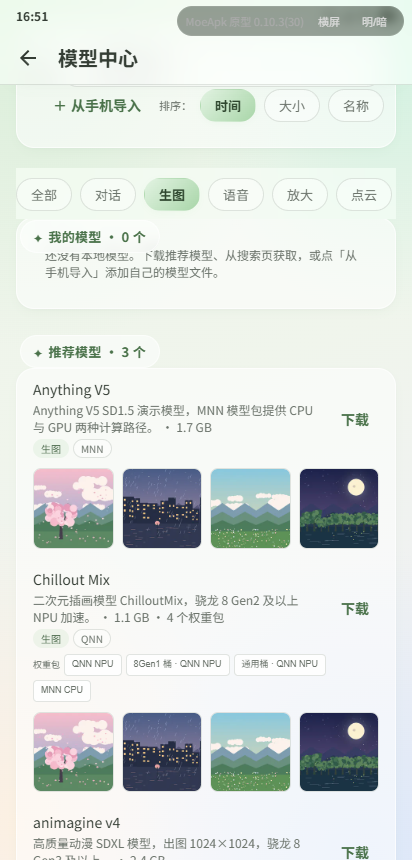
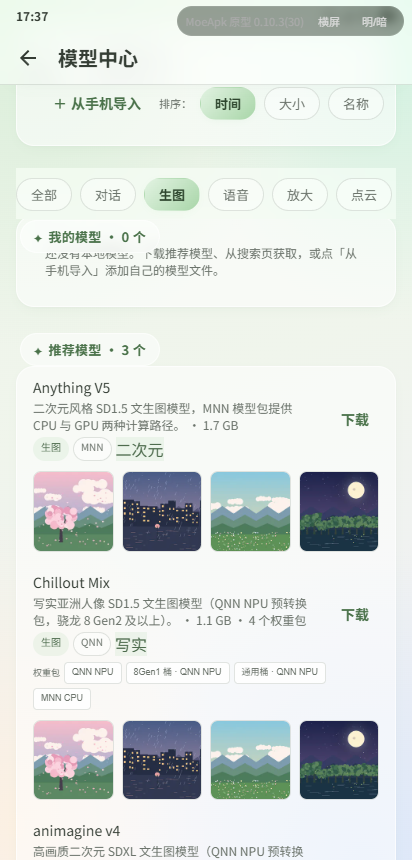
调整: 模型列表按画风排序，二次元优先写实靠后
- 家族口径与 App 一致：按架构（SD1.5/SDXL…）分组，组头显示模型个数
- 家族内按画风排序（二次元 → 通用 → 写实），同档保持目录原顺序
- 画风判定只读目录摘要与模型名；混合风格（动漫×写实）与判定不出归通用
- 行内显示二次元/写实标签（通用不显示），排序依据自明
- 演示数据摘要改为真实画风描述；契约与走查同步更新（41 项契约全过）

diff --git a/js/data/ai.js b/js/data/ai.js
@@ -23,7 +23,7 @@ window.DB.AI = [
     "summary": "参考音频编码器：上传一段音频即可克隆音色。", "engine": "onnxruntime",
     "parts": [ { "name": "codec_encoder_fp16.onnx", "size": 845000000 } ] },
   { "type": "model", "id": "anything-v5-mnn", "name": "Anything V5（SD1.5 MNN）", "kind": "diffusion", "version": "1.0.0",
-    "summary": "Anything V5 SD1.5 演示模型，MNN 模型包提供 CPU 与 GPU 两种计算路径。", "engine": "sd-localdream",
+    "summary": "二次元风格 SD1.5 文生图模型，MNN 模型包提供 CPU 与 GPU 两种计算路径。", "engine": "sd-localdream",
     "diffusion": { "family": "Anything V5", "architecture": "SD1.5", "backends": ["cpu", "gpu"], "packageNote": "SD1.5 MNN 演示包；CPU / GPU，无 QNN 包" },
     "samples": [
       { "thumb": "assets/model-samples/anything-v5-sakura-200.webp", "image": "assets/model-samples/anything-v5-sakura-512.webp", "info": "assets/model-samples/anything-v5-sakura.json" },
@@ -33,7 +33,7 @@ window.DB.AI = [
     ],
     "parts": [ { "name": "Anything-V5-SD15-MNN.zip", "size": 1800000000 } ] },
   { "type": "model", "id": "chillout-mix-qnn", "name": "Chillout Mix（SD1.5 QNN NPU）", "kind": "diffusion", "version": "1.0.0",
-    "summary": "二次元插画模型 ChilloutMix，骁龙 8 Gen2 及以上 NPU 加速。", "engine": "sd-localdream",
+    "summary": "写实亚洲人像 SD1.5 文生图模型（QNN NPU 预转换包，骁龙 8 Gen2 及以上）。", "engine": "sd-localdream",
     "diffusion": { "family": "Chillout Mix", "architecture": "SD1.5", "backends": ["npu"], "npuVendor": "Qualcomm", "minGeneration": 2, "packageNote": "仅 QNN / Hexagon，无 CPU / MNN 包" },
     "samples": [
       { "thumb": "assets/model-samples/chillout-mix-1-200.webp", "image": "assets/model-samples/chillout-mix-1-512.webp", "info": "assets/model-samples/chillout-mix-1.json" },
@@ -43,7 +43,7 @@ window.DB.AI = [
     ],
     "parts": [ { "name": "ChilloutMix_qnn2.28_8gen2.zip", "size": 1150000000 } ] },
   { "type": "model", "id": "chillout-mix-qnn-8gen1", "name": "Chillout Mix（SD1.5 QNN NPU · 8Gen1 桶）", "kind": "diffusion", "version": "1.0.0",
-    "summary": "同一 ChilloutMix 权重的 8 Gen1 预转换桶，老骁龙也能跑。", "engine": "sd-localdream",
+    "summary": "写实亚洲人像 SD1.5 文生图模型（QNN NPU 预转换包，骁龙 8 Gen1 桶）。", "engine": "sd-localdream",
     "diffusion": { "family": "Chillout Mix", "architecture": "SD1.5", "backends": ["npu"], "npuVendor": "Qualcomm", "minGeneration": 1, "packageNote": "8 Gen1 桶；与通用桶权重相同、仅 HTP 图不同" },
     "samples": [
       { "thumb": "assets/model-samples/chillout-mix-1-200.webp", "image": "assets/model-samples/chillout-mix-1-512.webp", "info": "assets/model-samples/chillout-mix-1.json" },
@@ -53,11 +53,11 @@ window.DB.AI = [
     ],
     "parts": [ { "name": "ChilloutMix_qnn2.28_8gen1.zip", "size": 1150000000 } ] },
   { "type": "model", "id": "chillout-mix-qnn-min", "name": "Chillout Mix（SD1.5 QNN NPU · 通用桶）", "kind": "diffusion", "version": "1.0.0",
-    "summary": "同一 ChilloutMix 权重的通用桶，覆盖其余高通代际。", "engine": "sd-localdream",
+    "summary": "写实亚洲人像 SD1.5 文生图模型（QNN NPU 预转换包，通用桶）。", "engine": "sd-localdream",
     "diffusion": { "family": "Chillout Mix", "architecture": "SD1.5", "backends": ["npu"], "npuVendor": "Qualcomm", "minGeneration": 1, "packageNote": "通用桶；与 8Gen1 桶权重相同" },
     "parts": [ { "name": "ChilloutMix_qnn2.28_min.zip", "size": 1150000000 } ] },
   { "type": "model", "id": "chillout-mix-mnn", "name": "Chillout Mix（SD1.5 CPU）", "kind": "diffusion", "version": "1.0.0",
-    "summary": "ChilloutMix 的 MNN CPU 包，任意设备可跑，速度慢于 NPU。", "engine": "sd-localdream",
+    "summary": "写实亚洲人像 SD1.5 文生图模型（MNN CPU/OpenCL 格式，任意设备可跑）。", "engine": "sd-localdream",
     "diffusion": { "family": "Chillout Mix", "architecture": "SD1.5", "backends": ["cpu", "gpu"], "packageNote": "SD1.5 MNN 包；CPU / OpenCL" },
     "samples": [
       { "thumb": "assets/model-samples/chillout-mix-1-200.webp", "image": "assets/model-samples/chillout-mix-1-512.webp", "info": "assets/model-samples/chillout-mix-1.json" },
@@ -67,7 +67,7 @@ window.DB.AI = [
     ],
     "parts": [ { "name": "ChilloutMix_mnn_cpu.zip", "size": 1800000000 } ] },
   { "type": "model", "id": "animagine-v4-sdxl", "name": "animagine v4（SDXL QNN NPU）", "kind": "diffusion", "version": "1.0.0",
-    "summary": "高质量动漫 SDXL 模型，出图 1024×1024，骁龙 8 Gen3 及以上。", "engine": "sd-localdream",
+    "summary": "高画质二次元 SDXL 文生图模型（QNN NPU 预转换包，出图 1024×1024，仅骁龙 8Gen3 及更新）。", "engine": "sd-localdream",
     "diffusion": { "family": "Animagine", "architecture": "SDXL", "backends": ["npu"], "npuVendor": "Qualcomm", "minGeneration": 3, "packageNote": "仅骁龙 8 Gen3+ QNN，无 CPU / MNN 包" },
     "samples": [
       { "thumb": "assets/model-samples/animagine-v4-starlight-200.webp", "image": "assets/model-samples/animagine-v4-starlight-1024.webp", "info": "assets/model-samples/animagine-v4-starlight.json" },

diff --git a/js/model-display.js b/js/model-display.js
@@ -6,9 +6,12 @@
   var BACKEND_WORDS = ['CPU', 'GPU', 'NPU', 'QNN', 'MNN', 'OpenCL'];
   var PAREN = /（([^（）]*)）$/;
 
+  // 家族口径与 App 一致：按架构（SD1.5 / SDXL / DiT…）分组，组内再按基础模型名分行。
   function family(model) {
     var diffusion = model && model.diffusion;
-    return (diffusion && diffusion.family) || (model && model.name) || '其它模型';
+    if (diffusion && diffusion.architecture) return diffusion.architecture;
+    if (diffusion && diffusion.family) return diffusion.family;
+    return (model && model.name) || '其它模型';
   }
 
   function splitName(name, familyLabel) {
@@ -34,6 +37,39 @@
       });
     });
     return { base: base, tags: tags };
+  }
+
+  // 画风分档：二次元主题 App 里二次元模型排前、写实模型排后。
+  // 判定只读目录自带的 summary 与模型名；混合风格（动漫×写实）与判定不出的归通用，
+  // 与同档其它模型一起保持目录原顺序（稳定排序），不把不认识的模型乱插。
+  var ANIME_SUMMARY = ['二次元', '动漫', '卡通', '萌系', '可爱', '插画'];
+  var REAL_SUMMARY = ['写实', '真实', '人像', '照片'];
+  var REAL_NAME = ['reality', 'realistic', 'realism', 'realvis', 'realisian', 'photo', 'chillout',
+    'realskin', 'vision', 'epic', 'orange', 'xxx', 'reed', 'gonzalomo', 'shaper', 'majicmix'];
+  var ANIME_NAME = ['anime', 'anything', 'cute', 'yuki', 'kemono', 'furry', 'pony', 'illustrious', 'noobai',
+    'novelai', 'anim', 'toon', 'chibi', 'moe', 'harem', 'ppanimix', 'chenkinnoob', 'featherfall',
+    'flanime', 'animepopcute', 'sushi', 'meina', 'mistoon', 'nai', 'counterfeit', 'qtea',
+    'unholy', 'fabled', 'lustify', 'biglust', 'oneobsession', 'hdarainbow', 'rawdiance',
+    'rawb2diance', 'lemonsugar', 'bsse', 'perfect', 'prefect', 'illustrij', 'miaomiao', 'mix',
+    'sweet', 'obsidian'];
+  var STYLE_RANK = { '二次元': 0, '通用': 1, '写实': 2 };
+
+  function styleOf(model) {
+    var summary = String((model && model.summary) || '').toLowerCase();
+    var anime = ANIME_SUMMARY.some(w => summary.indexOf(w) >= 0);
+    var real = REAL_SUMMARY.some(w => summary.indexOf(w) >= 0);
+    if (anime && real) return '通用';
+    if (real) return '写实';
+    if (anime) return '二次元';
+    var name = String((model && (model.id + ' ' + model.name)) || '').toLowerCase();
+    if (REAL_NAME.some(w => name.indexOf(w) >= 0)) return '写实';
+    if (ANIME_NAME.some(w => name.indexOf(w) >= 0)) return '二次元';
+    return '通用';
+  }
+
+  function styleLabel(model) {
+    var style = styleOf(model);
+    return style === '通用' ? '' : style;
   }
 
   function normalize(name) { return String(name || '').replace(/\s+/g, '').toLowerCase(); }
@@ -121,9 +157,27 @@
           samples.push(sample);
         });
       });
-      return { family: bucket.family, title: bucket.base, variants: variants, samples: samples };
+      var style = styleOf(bucket.items[0].model);
+      return {
+        family: bucket.family, title: bucket.base, variants: variants, samples: samples,
+        style: style, styleLabel: style === '通用' ? '' : style,
+        order: byKey.indexOf(bucket)
+      };
     });
+    // 家族内按画风排序（二次元 → 通用 → 写实）；同档保持目录原顺序（稳定排序）
+    var byFamily = [];
+    grouped.forEach(function (g) {
+      var slot = byFamily.find(entry => entry.family === g.family);
+      if (!slot) { slot = { family: g.family, items: [] }; byFamily.push(slot); }
+      slot.items.push(g);
+    });
+    var out = [];
+    byFamily.forEach(function (slot) {
+      slot.items.slice().sort((a, b) => (STYLE_RANK[a.style] - STYLE_RANK[b.style]) || (a.order - b.order))
+        .forEach(g => out.push(g));
+    });
+    return out;
   }
 
-  window.ModelGroups = { family: family, splitName: splitName, group: group, samplesOf: samplesOf, backendLabel: backendLabel };
+  window.ModelGroups = { family: family, splitName: splitName, group: group, samplesOf: samplesOf, backendLabel: backendLabel, styleOf: styleOf, styleLabel: styleLabel };
 })();

diff --git a/js/screens/ai-diffusion.js b/js/screens/ai-diffusion.js
@@ -285,19 +285,25 @@
       [['txt', '文生图'], ['img', '图生图'], ['inpaint', '局部重绘']].map(x =>
         '<button class="' + (d.mode === x[0] ? 'on' : '') + '" data-a="diff-mode" data-arg="' + x[0] + '">' + x[1] + '</button>').join('') + '</div>' +
       '<div class="diff-caption">图生图 / 局部重绘会在创作输入步选择底图；切换方式不保留旧遮罩。</div>';
-    // 同一模型的多个权重包合并为一行，行内再选具体版本；家族组头吸顶
+    // 同一模型的多个权重包合并为一行，行内再选具体版本；家族组头吸顶并显示模型个数
     const groups = window.ModelGroups.group(DIFF_MODELS);
-    h += '<div class="diff-models">' + groups.map(g => modelGroupHtml(g, d)).join('') + '</div>';
+    const byFamily = [];
+    groups.forEach(g => {
+      let slot = byFamily.find(entry => entry.family === g.family);
+      if (!slot) { slot = { family: g.family, models: [] }; byFamily.push(slot); }
+      slot.models.push(g);
+    });
+    h += '<div class="diff-models">' + byFamily.map(slot =>
+      '<div class="section-title diff-family" role="heading" aria-level="2">' + esc(slot.family) +
+      ' · ' + slot.models.length + ' 个模型</div>' + slot.models.map(g => modelGroupHtml(g, d)).join('')
+    ).join('') + '</div>';
     return h;
   }
   function modelGroupHtml(g, d) {
     const activeId = d.modelId && g.variants.some(v => v.model.id === d.modelId)
       ? d.modelId
       : (g.variants[0] && g.variants[0].model.id);
-    const head = '<div class="section-title diff-family" role="heading" aria-level="2">' + esc(g.family) +
-      ' · ' + g.variants.length + ' 个权重包</div>';
-    const row = g.variants.map(v => modelRow(v, g, d, v.model.id === activeId)).find(Boolean) || '';
-    return head + row;
+    return g.variants.map(v => modelRow(v, g, d, v.model.id === activeId)).find(Boolean) || '';
   }
   function modelRow(variant, g, d, active) {
     const m = variant.model;
@@ -318,7 +324,8 @@
       : '';
     return '<article class="diff-model' + (selected ? ' on' : '') + '" data-model-id="' + esc(m.id) + '">' +
       '<div class="diff-model-top"><div><strong>' + esc(g.title) + '</strong><div class="diff-tags"><span>' + esc(familyOf(m)) + '</span>' +
-      backendsOf(m).map(b => '<span>' + backendNames[b] + '</span>').join('') + (isSdxl(m) ? '<span>宽高比</span>' : '') + '</div></div>' + trail + '</div>' +
+      backendsOf(m).map(b => '<span>' + backendNames[b] + '</span>').join('') + (isSdxl(m) ? '<span>宽高比</span>' : '') +
+      (g.styleLabel ? '<span>' + esc(g.styleLabel) + '</span>' : '') + '</div></div>' + trail + '</div>' +
       '<p>' + esc(m.summary) + '</p><div class="diff-model-meta"><span>' + fmtSize(size) + '</span><span>' + esc((m.diffusion && m.diffusion.packageNote) || '按模型包声明过滤后端') + '</span></div>' +
       (j && !j.done ? progress(j.p) : '') + chips + (g.samples.length ? ModelSamples.groupHtml(g) : '') + '</article>';
   }

diff --git a/js/screens/ai-models.js b/js/screens/ai-models.js
@@ -147,7 +147,8 @@
           : '';
         return '<div class="li model-item" data-model-id="' + esc(m.id) + '"><div class="model-item-main"><div class="li-body"><div class="li-title" style="font-weight:400">' + esc(g.title) + '</div>' +
           '<div class="li-sub">' + esc(m.summary) + ' · ' + fmtSize(size) + (g.variants.length > 1 ? ' · ' + g.variants.length + ' 个权重包' : '') + '</div>' +
-          '<div class="tag-row">' + tagsHtml(KIND_LABEL[m.kind] || m.kind, fmtOfEngine(m)) + capsHtml(m.caps) + '</div></div>' + trail + '</div>' +
+          '<div class="tag-row">' + tagsHtml(KIND_LABEL[m.kind] || m.kind, fmtOfEngine(m)) + capsHtml(m.caps) +
+          (m.kind === 'diffusion' && g.styleLabel ? '<span class="tag-kind">' + esc(g.styleLabel) + '</span>' : '') + '</div></div>' + trail + '</div>' +
           chips + (m.kind === 'diffusion' ? ModelSamples.groupHtml(g) : '') + '</div>';
       }).join('') + '</div>' : emptyHint('当前分类/过滤条件下没有推荐模型');
       }

diff --git a/tests/browser-model-samples.js b/tests/browser-model-samples.js
@@ -242,7 +242,7 @@ async function sampleMetrics() {
       chillout:root.querySelectorAll('.diff-model[data-model-id="chillout-mix-qnn"] .model-samples').length,
       families:root.querySelectorAll('.diff-family').length,
       variants:root.querySelectorAll('.diff-variant').length }; })()`);
-    assert.deepEqual(report.wizard, { anything:4, animagine:3, chillout:1, families:3, variants:4 });
+    assert.deepEqual(report.wizard, { anything:4, animagine:3, chillout:1, families:2, variants:4 });
     // 家族组头吸顶：滚到底后仍可见（sticky 生效）
     assert(await evaluate(`(() => { const el=document.querySelector('.diff-family'); const r=el.getBoundingClientRect();
       const step=document.querySelector('.diff-step[data-step="0"]').getBoundingClientRect();
